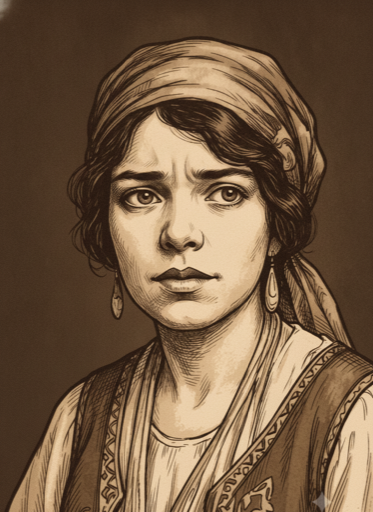
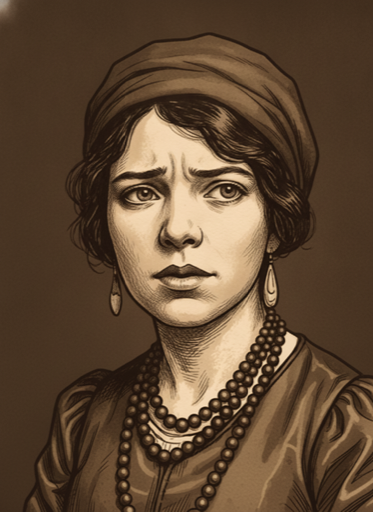
Fix roster-wide text-only-likeness gap for #546
Audits the rest of the roster for the same gap #541 fixed for Crowley:
base portraits generated from text alone, with no archival photo
anchoring likeness. Promotes five corrected members after two rounds
of review in three cases, where the prompt text itself misdescribed
the reference photo rather than the generation being at fault (Sun
Ra's invented attire, Randolph's complexion/nose drift, Warburg's
invented glasses). Blavatsky and Pauli were reviewed and rejected
outright; Waite and Jung judged close enough as-is.

Closes #546

diff --git a/scripts/fix-546-roster-likeness.js b/scripts/fix-546-roster-likeness.js
@@ -1,0 +1,172 @@
+'use strict';
+
+// #546 — roster-wide audit for the same text-only-likeness gap #541 found and
+// fixed for Crowley: a base portrait generated from a text prompt alone, with
+// no archival photo attached as a `referenceImages` anchor, lets the model
+// fill in likeness from its own training association instead of a verified
+// source. Each member here gets the identical fix #541 used, just with
+// member-specific reference photos and subject text (see
+// public/portraits/likeness-refs/metadata.json for per-photo provenance).
+//
+// Pass-1 review (2026-09-09): Rachel rejected Blavatsky and Pauli outright
+// (keep their current live portraits) — removed from MEMBERS below, not
+// re-run. Warburg's candidate is still pending her review.
+//
+// Pass-3 review (2026-09-09): Randolph approved the new likeness overall but
+// flagged a too-dark complexion and too-wide/round nostrils vs. the
+// reference photo — MEMBERS.randolph.subject below is the round-2 revision
+// with explicit correction language for both. Sun Ra's face was approved
+// again, but the round-1 "plain button shirt, no headdress" rewrite turned
+// out to misdescribe the reference photo — re-inspecting it directly showed
+// a dark patterned knit sweater and a small embroidered/beaded cap, not a
+// bare button shirt. MEMBERS['sun-ra'].subject below is the round-2 fix.
+//
+// Waite, Jung, Coleman-Smith, and Lévi are deliberately excluded from this
+// script — Rachel's per-member review call, not an oversight:
+//   - Waite / Jung: close enough as-is, no regeneration.
+//   - Coleman-Smith: face is close enough; only her attire needs correcting
+//     (costume-y outfit vs. the real photo's attire) — handled in
+//     scripts/fix-546-levi-pixie.js, a face-preserving/attire-only edit, not
+//     this script's full anchor.
+//   - Lévi: wants a lighter-touch, ~50%-blended treatment (keep more of the
+//     current generated face rather than fully replacing it with the much
+//     older reference photo) — also in scripts/fix-546-levi-pixie.js.
+// Corbin has no known photo and isn't part of any #546 script.
+//
+// Same structure as fix-541-crowley-likeness.js: generate a likeness-
+// anchored base, then regenerate the three reactions anchored to the NEW
+// base candidate (not yet promoted) so likeness accuracy and cross-image
+// consistency hold together. Candidates land in public/portraits/candidates/
+// for human review — this script never promotes.
+//
+// Usage: node scripts/fix-546-roster-likeness.js [memberId ...]
+//   (no args runs all three; pass one or more of warburg/sun-ra/randolph to
+//   run a subset)
+
+require('dotenv').config();
+const fs = require('fs');
+const path = require('path');
+const {
+  generatePortraitImage,
+  buildLikenessAnchoredBasePrompt,
+  buildReactionPrompt,
+  REACTION_TYPES,
+} = require('../src/portrait-generation');
+
+const ROOT = path.join(__dirname, '..');
+const PORTRAITS_DIR = path.join(ROOT, 'public', 'portraits');
+const CANDIDATES_DIR = path.join(PORTRAITS_DIR, 'candidates');
+const LIKENESS_REFS_DIR = path.join(PORTRAITS_DIR, 'likeness-refs');
+
+// Composition suffix unchanged from fix-541-crowley-likeness.js — same
+// register across the whole roster.
+const COMPOSITION_SUFFIX =
+  'Head-and-shoulders, period-appropriate dress, plain dark unornamented background — no scene elements, no furniture, no bookshelves, no architectural detail. Contemplative, neutral expression. Visible linework and texture (engraving/ink-wash register), not photorealistic or cartoon/flat-vector. Limited warm sepia/candlelit palette. Portrait orientation (taller than wide).';
+
+// Subject clauses adapted from BATCH-1-PROMPTS.md's originals: dropped "aim
+// for a recognizable likeness consistent with surviving photographs" (the
+// attached reference photo now does that job directly), and added the
+// concrete physical detail the roster audit flagged as the specific drift
+// risk for each member, same reasoning as Crowley's fix.
+const MEMBERS = {
+  warburg: {
+    // Revised 2026-09-09 (round 2) per Rachel's pass-4 review: round 1's
+    // "round wire-frame glasses" claim was wrong — re-inspected the reference
+    // photo directly and Warburg is not wearing glasses in it (he's shown
+    // reading, hand to forehead); the current live portrait also has no
+    // glasses. The metadata.json notes for this photo made the same wrong
+    // claim and have been corrected alongside this prompt. Same root-cause
+    // class as the Sun Ra "buttondown" fix: prose describing an assumed
+    // detail instead of what the photo actually shows.
+    subject:
+      'Warm, etching-adjacent portrait of Aby Warburg, German art historian, early 20th century — head-and-shoulders, formal suit, intense/haunted expression. A receding hairline and a neat mustache, no glasses — match this specific, recognizable combination from the reference photo rather than a generic early-20th-century scholar look.',
+  },
+  'sun-ra': {
+    // Revised 2026-09-09 (round 2) per Rachel's pass-3 review: round 1's
+    // "plain button shirt, no headdress" was wrong about what the reference
+    // photo actually shows — re-inspected it directly and the foreground
+    // Sun Ra (seated at the keyboard) wears a dark patterned/textured knit
+    // sweater and a small round embroidered/beaded cap, not a headdress and
+    // not a button shirt either. This version names that specific plain-but-
+    // textured attire instead of either extreme (invented regalia, or an
+    // overcorrected plain shirt).
+    subject:
+      'Warm, etching-adjacent portrait of Sun Ra, American musician and cosmic philosopher, mid-20th century — head-and-shoulders. Match the reference photo\'s actual attire closely: a dark patterned/textured knit sweater (not a plain button shirt) and a small, close-fitting round embroidered or beaded cap — plain everyday dress with real texture and pattern, not sequined robes or elaborate ceremonial regalia, and not a bare headdress-free look either. The distinctiveness should come from his face, bearing, and this specific plain cap and sweater, not from invented ceremonial clothing.',
+  },
+  randolph: {
+    // Revised 2026-09-09 (round 2) per Rachel's pass-3 review: round 1's
+    // candidate came out with a darker complexion and a wider/rounder nose
+    // than the reference photo shows. Added explicit correction language for
+    // both, same pattern as the rest of this file's likeness-anchor prompts.
+    subject:
+      'Warm, etching-adjacent portrait of Paschal Beverly Randolph, American Rosicrucian founder and physician, mid-19th century — head-and-shoulders, formal mid-Victorian dress (dark coat, cravat) appropriate to a Black American professional man of the period, direct dignified gaze. Match the reference photo\'s actual facial structure, complexion, and hair exactly — this is the only known photograph of Randolph, so it is the sole ground truth for his likeness. In particular: match the reference photo\'s lighter, medium-brown complexion (do not render him darker-skinned than the photo shows), and its narrower, slightly taller nose with less flare at the nostrils than a generic rendering would default to.',
+  },
+};
+
+function buildBasePrompt(id) {
+  return buildLikenessAnchoredBasePrompt(`${MEMBERS[id].subject} ${COMPOSITION_SUFFIX}`);
+}
+
+async function generateMember(apiKey, id) {
+  const refPath = path.join(LIKENESS_REFS_DIR, `${id}.jpg`);
+  if (!fs.existsSync(refPath)) {
+    console.error(`  No likeness reference found at ${path.relative(ROOT, refPath)} — skipping ${id}`);
+    return;
+  }
+
+  const referenceImages = [{ mimeType: 'image/jpeg', data: fs.readFileSync(refPath) }];
+
+  console.log(`[${id}] Generating likeness-anchored base portrait...`);
+  const baseBuffer = await generatePortraitImage({ apiKey, prompt: buildBasePrompt(id), referenceImages });
+  fs.writeFileSync(path.join(CANDIDATES_DIR, `${id}.png`), baseBuffer);
+  console.log(`[${id}]   done (${baseBuffer.length} bytes) -> public/portraits/candidates/${id}.png`);
+
+  const baseReferenceImages = [{ mimeType: 'image/png', data: baseBuffer }];
+  for (const reaction of REACTION_TYPES) {
+    const candidateId = `${id}-${reaction}`;
+    process.stdout.write(`[${id}] Generating ${reaction}... `);
+    const buffer = await generatePortraitImage({
+      apiKey,
+      prompt: buildReactionPrompt(reaction, id),
+      referenceImages: baseReferenceImages,
+    });
+    fs.writeFileSync(path.join(CANDIDATES_DIR, `${candidateId}.png`), buffer);
+    console.log(`done (${buffer.length} bytes) -> public/portraits/candidates/${candidateId}.png`);
+  }
+}
+
+async function main() {
+  const apiKey = process.env.GEMINI_API_KEY;
+  if (!apiKey) {
+    console.error('GEMINI_API_KEY not set — cannot generate real portrait candidates.');
+    process.exit(1);
+  }
+
+  const requested = process.argv.slice(2);
+  const ids = requested.length > 0 ? requested : Object.keys(MEMBERS);
+  for (const id of ids) {
+    if (!MEMBERS[id]) {
+      console.error(`Unknown member id: ${id} (expected one of ${Object.keys(MEMBERS).join(', ')})`);
+      process.exit(1);
+    }
+  }
+
+  fs.mkdirSync(CANDIDATES_DIR, { recursive: true });
+
+  for (const id of ids) {
+    await generateMember(apiKey, id);
+  }
+
+  console.log('\nNext: review each candidate in public/portraits/candidates/ against its reference photo and STYLE_GUIDE.md, then promote with:');
+  for (const id of ids) {
+    console.log(`  node scripts/promote-portrait.js ${id} --force`);
+    for (const reaction of REACTION_TYPES) {
+      console.log(`  node scripts/promote-portrait.js ${id}-${reaction} --force`);
+    }
+  }
+}
+
+main().catch(err => {
+  console.error('Script error:', err);
+  process.exit(1);
+});

diff --git a/scripts/fix-546-levi-pixie.js b/scripts/fix-546-levi-pixie.js
@@ -1,0 +1,131 @@
+'use strict';
+
+// #546 — Lévi and Coleman-Smith ("pixie") both need a different correction
+// axis than the full likeness anchor scripts/fix-546-roster-likeness.js uses
+// for the rest of the roster. Rachel's pass-1 review call for each:
+//
+//   - Lévi: the current generated base already reads as a recognizable,
+//     established character, but is decades younger and less gaunt/bald
+//     than the one known 1874 photograph of him late in life. A full anchor
+//     (like Blavatsky/Warburg/Pauli/Randolph) would replace him outright
+//     with a very old, white-bearded man — Rachel's call was a ~50% blend
+//     instead: move toward the reference's documented age/beard/balding
+//     without fully discarding the current face, partly to keep some age
+//     diversity across the roster's generated portraits.
+//   - Coleman-Smith: the opposite problem. Her face is close enough to keep
+//     as-is, but her current attire (a patterned folk vest, elaborate scarf)
+//     reads as costume next to the real 1912 photograph's plainer attire
+//     (satin dress, layered beaded necklaces, simple headwrap). This is an
+//     attire-only edit that must NOT touch her face/identity.
+//
+// Both are implemented as photo-editing tasks with TWO reference images
+// attached (the member's own current live base portrait, then the archival
+// photo) rather than the single-reference full anchor the other script uses
+// — the model is instructed exactly what to take from each. Same downstream
+// structure as fix-546-roster-likeness.js: base candidate, then three
+// reactions anchored to the new base. Candidates land in
+// public/portraits/candidates/ for human review — this script never
+// promotes.
+//
+// Usage: node scripts/fix-546-levi-pixie.js [memberId ...]
+//   (no args runs both; pass one or more of levi/pixie to run a subset)
+
+require('dotenv').config();
+const fs = require('fs');
+const path = require('path');
+const {
+  generatePortraitImage,
+  buildReactionPrompt,
+  REACTION_TYPES,
+} = require('../src/portrait-generation');
+
+const ROOT = path.join(__dirname, '..');
+const PORTRAITS_DIR = path.join(ROOT, 'public', 'portraits');
+const CANDIDATES_DIR = path.join(PORTRAITS_DIR, 'candidates');
+const LIKENESS_REFS_DIR = path.join(PORTRAITS_DIR, 'likeness-refs');
+
+const STYLE_SUFFIX =
+  'Visible linework and texture (engraving/ink-wash register), not photorealistic or cartoon/flat-vector. Limited warm sepia/candlelit palette matching the first reference image\'s exact tone. Plain dark unornamented background matching the first reference image — no scene elements, no vignette. Head-and-shoulders, portrait orientation, thumbnail resolution.';
+
+const MEMBERS = {
+  levi: {
+    buildBasePrompt: () =>
+      `This is a photo-editing task blending two reference images of the same established character, Éliphas Lévi. The FIRST attached image is his current portrait in this set. The SECOND is a genuine 1874 archival photograph of the real Lévi late in life. Blend the two evenly, roughly 50/50 — do not simply reproduce either image. Move the face meaningfully toward the second image's documented age, its fuller and whiter beard, and its receding/balding hairline, while still keeping visible continuity with the first image's face (bone structure, general vitality) so the result reads as the same character grown older, not an unrelated old man. Formal dark coat and cravat, contemplative gaze. ${STYLE_SUFFIX}`,
+  },
+  pixie: {
+    buildBasePrompt: () =>
+      `This is a photo-editing task. The FIRST attached reference image is Pamela Colman Smith's current portrait in this set — her face, skin tone, age, and identity in your output must match this first image exactly; do not alter her face at all. The SECOND attached image is a genuine circa-1912 photograph of the real Pamela Colman Smith, showing her actual attire: a dark satin dress with gathered sleeves, several strands of large beads layered at the neck, drop earrings, and a soft fabric wrap bound simply over her hair. Replace ONLY her clothing, headwear, and jewelry with attire in that same plain, real register as the second image — not the more patterned, folk-costume-like vest and scarf of the first image. Keep her face and the first image's framing and style untouched. ${STYLE_SUFFIX}`,
+  },
+};
+
+async function generateMember(apiKey, id) {
+  const currentPath = path.join(PORTRAITS_DIR, `${id}.png`);
+  const refPath = path.join(LIKENESS_REFS_DIR, `${id}.jpg`);
+  if (!fs.existsSync(currentPath) || !fs.existsSync(refPath)) {
+    console.error(`  Missing current portrait or reference photo for ${id} — skipping`);
+    return;
+  }
+
+  const referenceImages = [
+    { mimeType: 'image/png', data: fs.readFileSync(currentPath) },
+    { mimeType: 'image/jpeg', data: fs.readFileSync(refPath) },
+  ];
+
+  console.log(`[${id}] Generating blended base portrait...`);
+  const baseBuffer = await generatePortraitImage({
+    apiKey,
+    prompt: MEMBERS[id].buildBasePrompt(),
+    referenceImages,
+  });
+  fs.writeFileSync(path.join(CANDIDATES_DIR, `${id}.png`), baseBuffer);
+  console.log(`[${id}]   done (${baseBuffer.length} bytes) -> public/portraits/candidates/${id}.png`);
+
+  const baseReferenceImages = [{ mimeType: 'image/png', data: baseBuffer }];
+  for (const reaction of REACTION_TYPES) {
+    const candidateId = `${id}-${reaction}`;
+    process.stdout.write(`[${id}] Generating ${reaction}... `);
+    const buffer = await generatePortraitImage({
+      apiKey,
+      prompt: buildReactionPrompt(reaction, id),
+      referenceImages: baseReferenceImages,
+    });
+    fs.writeFileSync(path.join(CANDIDATES_DIR, `${candidateId}.png`), buffer);
+    console.log(`done (${buffer.length} bytes) -> public/portraits/candidates/${candidateId}.png`);
+  }
+}
+
+async function main() {
+  const apiKey = process.env.GEMINI_API_KEY;
+  if (!apiKey) {
+    console.error('GEMINI_API_KEY not set — cannot generate real portrait candidates.');
+    process.exit(1);
+  }
+
+  const requested = process.argv.slice(2);
+  const ids = requested.length > 0 ? requested : Object.keys(MEMBERS);
+  for (const id of ids) {
+    if (!MEMBERS[id]) {
+      console.error(`Unknown member id: ${id} (expected one of ${Object.keys(MEMBERS).join(', ')})`);
+      process.exit(1);
+    }
+  }
+
+  fs.mkdirSync(CANDIDATES_DIR, { recursive: true });
+
+  for (const id of ids) {
+    await generateMember(apiKey, id);
+  }
+
+  console.log('\nNext: review each candidate in public/portraits/candidates/ against its reference photo and STYLE_GUIDE.md, then promote with:');
+  for (const id of ids) {
+    console.log(`  node scripts/promote-portrait.js ${id} --force`);
+    for (const reaction of REACTION_TYPES) {
+      console.log(`  node scripts/promote-portrait.js ${id}-${reaction} --force`);
+    }
+  }
+}
+
+main().catch(err => {
+  console.error('Script error:', err);
+  process.exit(1);
+});

diff --git a/public/portraits/STYLE_GUIDE.md b/public/portraits/STYLE_GUIDE.md
@@ -33,6 +33,8 @@ AI-generated, proof-of-concept register for this stage of the project. Not commi
 
 ## Changelog
 
+- 2026-09-09 — [#546](https://github.com/msdixon/secret-cabinet/issues/546): audited the rest of the roster for the same text-only-likeness gap [#541](https://github.com/msdixon/secret-cabinet/issues/541) fixed for Crowley, using the same `referenceImages`-anchoring mechanism against sourced archival photos (`public/portraits/likeness-refs/`, provenance in that directory's `metadata.json`). Seven members reviewed; five promoted, two rejected outright. Warburg, Sun Ra, and Randolph got the full anchor treatment (`scripts/fix-546-roster-likeness.js`); Lévi got a deliberately partial ~50%-blended anchor (aging toward his 1874 photo without fully replacing the current face) and Coleman-Smith ("Pixie") got a face-preserving attire-only edit (`scripts/fix-546-levi-pixie.js`) — both handled separately since neither wanted a full base-portrait replacement. Two rounds of correction were needed after human review caught the prompt text itself misdescribing the reference photo rather than the generation being wrong: Sun Ra's first-round prompt invented "a plain button shirt, no headdress" that isn't what the photo shows (it's a dark patterned knit sweater and a small embroidered cap); Randolph's first-round candidate read darker-skinned and wider-nosed than his one surviving photo, needing explicit complexion/nostril-shape correction language; Warburg's first-round prompt claimed "round wire-frame glasses" from the reference photo that the photo — and the metadata notes describing it — never actually showed, so both were corrected and the candidate regenerated glasses-free. Blavatsky and Pauli were reviewed and rejected outright — their current live portraits stand, no anchor was applied. Waite and Jung were judged close enough as-is and excluded from the audit entirely. Confirms the lesson from all three corrections: prose describing "what the reference photo shows" has to be checked directly against the image before it's trusted, not inherited from an earlier description or assumption, even one written earlier in the same fix.
+
 - 2026-09-06 — [#541](https://github.com/msdixon/secret-cabinet/issues/541): every base portrait was generated from a text-only prompt with no actual photographic anchor, so likeness came from the model's own training association rather than a verified source — confirmed concretely for Crowley, whose generated base read noticeably younger, slimmer-faced, and more romanticized than his real "Great Beast" prime (1920s-30s Abbey of Thelema era), which was heavier and jowlier. Fixed by sourcing a plain, unstaged archival photo (Wikimedia Commons, "Aleister Crowley, thinker," circa 1925, public domain; provenance in the new `public/portraits/likeness-refs/metadata.json`) and wiring a `referenceImages`-anchoring mechanism into base-portrait generation itself: `buildLikenessAnchoredBasePrompt` (`src/portrait-generation.js`) prepends an explicit "match this photo's actual proportions, do not slim, de-age, or otherwise flatter" instruction ahead of the drafted prompt, and `POST /api/members` (`src/routes/member.js`) now checks `public/portraits/likeness-refs/<id>.{jpg,jpeg,png}` for a sourced reference and, if found, passes it as a leading `referenceImages` anchor exactly like reaction portraits already do — with zero behavior change for members without one. Regenerated and promoted Crowley's base portrait and all three reactions (anchored to the *new* base, so likeness accuracy and cross-image consistency both hold at once, same reasoning as [#531](https://github.com/msdixon/secret-cabinet/issues/531)'s fix) via `scripts/fix-541-crowley-likeness.js`; confirmed on review the new base closely matches the reference photo's build, bald head, and jowls, replacing the prior portrait's noticeably younger/slimmer face and ceremonial-sash costuming with the plain suit and bow tie the photo actually shows. The existing `public/archive/crowley-golden-dawn-1900.jpg` was considered and rejected as a reference — it's a staged, costumed 1900 book-cover photo of a ~25-year-old Crowley in ritual hood, predating and unrepresentative of the era in question. Deliberately deferred: auditing the rest of the roster for the same text-only-likeness gap — Crowley was the one confirmed case, not necessarily the only one; the `likeness-refs/` convention and prompt-anchoring mechanism now exist for whoever picks that up next.
 - 2026-09-02 — [#531](https://github.com/msdixon/secret-cabinet/issues/531): full-resolution audit of all 37 promoted reaction sets (Bamba excluded, routed to the generic silhouette) against each member's own baseline — not just per-image quality — surfaced two failure patterns the prior batches' review process didn't catch: three members' sets had drifted wholesale (Crowley `thinking`/`angry`, Waite's full set, Blavatsky's full set), reading as a different outfit, tone, or even a different person; and a narrower pattern where a member's `thinking` image alone dropped the baseline's border and tightened to a hand-to-chin crop the member's other three images don't share (Frieda Harris, Dion Fortune, Moina Mathers, Jung), plus one tone-only drift (Böhme `thinking`, warmer/golden vs. the set's cooler sepia). Root cause: every prior batch's prompt anchored likeness/attire/expression via the reference image but never said anything about border, crop, or camera distance, so a set could drift on exactly those axes while each image still "looked fine" reviewed in isolation. Fixed by adding an explicit consistency instruction (`scripts/fix-531-reaction-drift.js`) covering border/frame treatment, camera distance/crop, pose, and outfit/background match, layered onto the existing reference-anchored expression-override prompt; regenerated and promoted 13 images, each confirmed against its baseline via full-resolution side-by-side comparison (the thumbnail-grid method used in earlier batches wasn't reliable enough to have caught this in the first place). Added the border/frame and camera-distance/crop rules above to the baseline register so future batches state this explicitly instead of relying on the reference image alone. Two known gaps deliberately left out of this pass: Teresa of Ávila's baseline reads in a different sub-register (closed-eyes, borderless, near-black background, painterly) than her three reactions (open-eyes, bordered, warm background, graphic linework) — the reactions agree with each other but not with the baseline; lower priority and higher-risk to fix here, since a fix would mean regenerating a canonical baseline used elsewhere in the app, not just the reactions — filed as [#538](https://github.com/msdixon/secret-cabinet/issues/538). And the roster-wide bordered-vs-borderless split itself (each member passes the new per-member rule above; the split is between members, not within one) is left as-is rather than picked one way retroactively.
 - 2026-09-02 — [#483](https://github.com/msdixon/secret-cabinet/issues/483): the `angry` reaction now has two text registers in `src/portrait-generation.js` instead of one fixed description applied to everyone — the existing bared-teeth/snarl text (`ANGRY_EXPRESSION_SNARL`, unchanged, still the default) plus a new controlled, closed-mouth, cold-glare alternative (`ANGRY_EXPRESSION_ICY`) for reserved/cerebral figures the snarl doesn't suit. `buildReactionPrompt(reaction, memberId)` picks between them via a curated `ANGRY_VARIANT_BY_MEMBER` lookup table, seeded with just the one member Rachel named explicitly (Adorno → icy) — not an audit of the wider roster; extending the table for anyone else is a human-review judgment call for whoever generates that member's next `angry` candidate (a future batch/fixup script, same tiering pattern as [#450](https://github.com/msdixon/secret-cabinet/issues/450) batch 3's `THINKING_FIXUPS`), not something inferred automatically here. `src/routes/member.js`'s automated new-member path now passes the new member's id through so the table applies there too, though in practice a brand-new member won't be in it. Per the issue's own scoping: this changes the prompt logic for *future* angry-candidate generation only — no already-reviewed/promoted member's reaction set was regenerated.

diff --git a/docs/status/fragments/546-roster-likeness-audit.md b/docs/status/fragments/546-roster-likeness-audit.md
@@ -1,0 +1,1 @@
+[#546](https://github.com/msdixon/secret-cabinet/issues/546): audited the roster for the text-only-likeness gap [#541](https://github.com/msdixon/secret-cabinet/issues/541) fixed for Crowley. Promoted five corrected members (Warburg, Sun Ra, Randolph, Éliphas Lévi, Pamela Colman Smith), two rounds deep in three cases after review caught prompt text misdescribing the reference photo itself (invented attire, complexion/nose drift, invented glasses); rejected Blavatsky and Pauli outright, current portraits kept. Details and per-member notes in `public/portraits/STYLE_GUIDE.md`'s Changelog.
